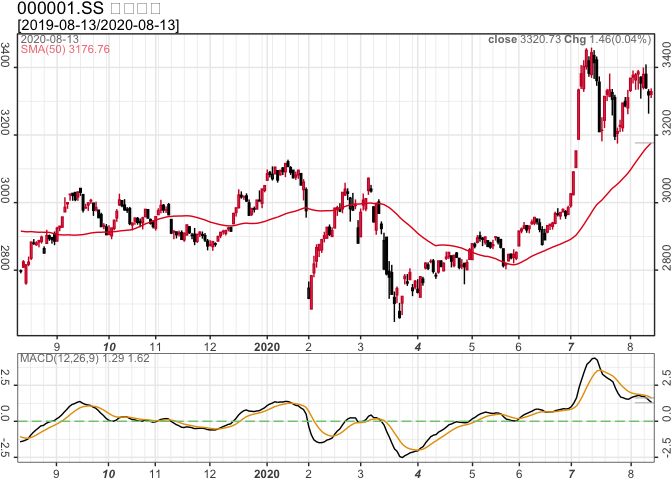
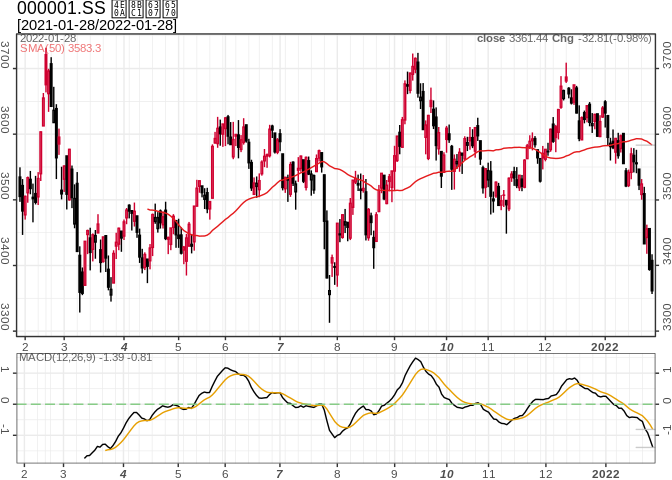
0.1.8

Changed region(s): [[0.0, 0.0, 1.0, 1.0]]

diff --git a/docs/index.html b/docs/index.html
@@ -85,8 +85,8 @@
 
 <p><code>pedquant</code> (Public Economic Data and QUANTitative analysis) provides an interface to access public economic and financial data for economic research and quantitative analysis. The functions are grouped into three main categories,</p>
 <ul>
-<li>ed_* (economic data) functions load economic data from <a href="http://data.stats.gov.cn" class="external-link">NBS</a> and <a href="http://data.stats.gov.cn" class="external-link">FRED</a>;</li>
-<li>md_* (market data) functions load stock prices from <a href="https://finance.yahoo.com" class="external-link">Yahoo finance</a>, stock prices and financial statements of SSE and SZSE shares from <a href="http://quotes.money.163.com/stock#1b01" class="external-link">163 Finance</a>, and future prices from <a href="https://finance.sina.com.cn/futuremarket/" class="external-link">Sina Finance</a> etc.</li>
+<li>ed_* (economic data) functions load economic data from <a href="http://www.stats.gov.cn/" class="external-link">NBS</a> and <a href="https://fred.stlouisfed.org/" class="external-link">FRED</a>;</li>
+<li>md_* (market data) functions load the forex, money, bond, stock, future market data from public data sources, including 163, Sina, qq finance and etc.</li>
 <li>pq_* (quantitative analysis) functions create technical indicators, visualization charts and industrial index etc for time series data.</li>
 </ul>
 <p>The functions in this package are designed to write minimum codes for some common tasks in quantitative analysis process. Since the parameters to get data can be interactively specify, it’s very easy to start. The loaded data have been carefully cleansed and provided in a unified format. More public data sources are still under cleansing and developing.</p>
@@ -114,12 +114,12 @@
 <span id="cb3-5"><a href="#cb3-5" aria-hidden="true" tabindex="-1"></a>dat2 <span class="ot">=</span> <span class="fu">ed_nbs</span>(<span class="at">geo_type=</span><span class="st">'nation'</span>, <span class="at">freq=</span><span class="st">'quarterly'</span>, <span class="at">symbol=</span><span class="st">'A010101'</span>)</span>
 <span id="cb3-6"><a href="#cb3-6" aria-hidden="true" tabindex="-1"></a></span>
 <span id="cb3-7"><a href="#cb3-7" aria-hidden="true" tabindex="-1"></a><span class="do">## import market data</span></span>
-<span id="cb3-8"><a href="#cb3-8" aria-hidden="true" tabindex="-1"></a>FAAG <span class="ot">=</span> <span class="fu">md_stock</span>(<span class="fu">c</span>(<span class="st">'FB'</span>, <span class="st">'AMZN'</span>, <span class="st">'AAPL'</span>, <span class="st">'GOOG'</span>), <span class="at">date_range =</span> <span class="st">'max'</span>) <span class="co"># from yahoo</span></span>
-<span id="cb3-9"><a href="#cb3-9" aria-hidden="true" tabindex="-1"></a><span class="co">#&gt; 1/4 FB</span></span>
-<span id="cb3-10"><a href="#cb3-10" aria-hidden="true" tabindex="-1"></a><span class="co">#&gt; 2/4 AMZN</span></span>
-<span id="cb3-11"><a href="#cb3-11" aria-hidden="true" tabindex="-1"></a><span class="co">#&gt; 3/4 AAPL</span></span>
-<span id="cb3-12"><a href="#cb3-12" aria-hidden="true" tabindex="-1"></a><span class="co">#&gt; 4/4 GOOG</span></span>
-<span id="cb3-13"><a href="#cb3-13" aria-hidden="true" tabindex="-1"></a>INDX <span class="ot">=</span> <span class="fu">md_stock</span>(<span class="fu">c</span>(<span class="st">'^000001'</span>,<span class="st">'^399001'</span>), <span class="at">date_range =</span> <span class="st">'max'</span>, <span class="at">source =</span> <span class="st">'163'</span>)</span>
+<span id="cb3-8"><a href="#cb3-8" aria-hidden="true" tabindex="-1"></a>FAAG <span class="ot">=</span> <span class="fu">md_stock</span>(<span class="fu">c</span>(<span class="st">'FB'</span>, <span class="st">'AMZN'</span>, <span class="st">'AAPL'</span>, <span class="st">'GOOG'</span>), <span class="at">date_range =</span> <span class="st">'10y'</span>)</span>
+<span id="cb3-9"><a href="#cb3-9" aria-hidden="true" tabindex="-1"></a><span class="co">#&gt; 1/4 fb</span></span>
+<span id="cb3-10"><a href="#cb3-10" aria-hidden="true" tabindex="-1"></a><span class="co">#&gt; 2/4 amzn</span></span>
+<span id="cb3-11"><a href="#cb3-11" aria-hidden="true" tabindex="-1"></a><span class="co">#&gt; 3/4 aapl</span></span>
+<span id="cb3-12"><a href="#cb3-12" aria-hidden="true" tabindex="-1"></a><span class="co">#&gt; 4/4 goog</span></span>
+<span id="cb3-13"><a href="#cb3-13" aria-hidden="true" tabindex="-1"></a>INDX <span class="ot">=</span> <span class="fu">md_stock</span>(<span class="fu">c</span>(<span class="st">'^000001'</span>,<span class="st">'^399001'</span>), <span class="at">date_range =</span> <span class="st">'10y'</span>)</span>
 <span id="cb3-14"><a href="#cb3-14" aria-hidden="true" tabindex="-1"></a><span class="co">#&gt; 1/2 ^000001</span></span>
 <span id="cb3-15"><a href="#cb3-15" aria-hidden="true" tabindex="-1"></a><span class="co">#&gt; 2/2 ^399001</span></span>
 <span id="cb3-16"><a href="#cb3-16" aria-hidden="true" tabindex="-1"></a></span>

diff --git a/README.md b/README.md
@@ -1,7 +1,6 @@
 <!-- README.md is generated from README.Rmd. Please edit that file -->
 
-pedquant
-========
+# pedquant
 
 [![Travis build
 status](https://travis-ci.org/ShichenXie/pedquant.svg?branch=master)](https://travis-ci.org/ShichenXie/pedquant)
@@ -16,13 +15,11 @@ research and quantitative analysis. The functions are grouped into three
 main categories,
 
 -   ed\_\* (economic data) functions load economic data from
-    [NBS](http://data.stats.gov.cn) and
-    [FRED](http://data.stats.gov.cn);
--   md\_\* (market data) functions load stock prices from [Yahoo
-    finance](https://finance.yahoo.com), stock prices and financial
-    statements of SSE and SZSE shares from [163
-    Finance](http://quotes.money.163.com/stock#1b01), and future prices
-    from [Sina Finance](https://finance.sina.com.cn/futuremarket/) etc.
+    [NBS](http://www.stats.gov.cn/) and
+    [FRED](https://fred.stlouisfed.org/);
+-   md\_\* (market data) functions load the forex, money, bond, stock,
+    future market data from public data sources, including 163, Sina, qq
+    finance and etc.
 -   pq\_\* (quantitative analysis) functions create technical
     indicators, visualization charts and industrial index etc for time
     series data.
@@ -44,8 +41,7 @@ ggplot2 and interactive graphics by using plotly. Similar works
 including [tidyquant](https://github.com/business-science/tidyquant) or
 [quantmod](https://github.com/joshuaulrich/quantmod).
 
-Installation
-------------
+## Installation
 
 -   Install the release version of `pedquant` from CRAN with:
 
@@ -60,8 +56,7 @@ Installation
 
     devtools::install_github("shichenxie/pedquant")
 
-Example
--------
+## Example
 
 The following examples show you how to import data and create charts.
 
@@ -72,12 +67,12 @@ The following examples show you how to import data and create charts.
     dat2 = ed_nbs(geo_type='nation', freq='quarterly', symbol='A010101')
 
     ## import market data
-    FAAG = md_stock(c('FB', 'AMZN', 'AAPL', 'GOOG'), date_range = 'max') # from yahoo
-    #> 1/4 FB
-    #> 2/4 AMZN
-    #> 3/4 AAPL
-    #> 4/4 GOOG
-    INDX = md_stock(c('^000001','^399001'), date_range = 'max', source = '163')
+    FAAG = md_stock(c('FB', 'AMZN', 'AAPL', 'GOOG'), date_range = '10y')
+    #> 1/4 fb
+    #> 2/4 amzn
+    #> 3/4 aapl
+    #> 4/4 goog
+    INDX = md_stock(c('^000001','^399001'), date_range = '10y')
     #> 1/2 ^000001
     #> 2/2 ^399001
 
@@ -100,8 +95,7 @@ The following examples show you how to import data and create charts.
 
 <img src="man/figures/README-charts2-1.png" width="100%" />
 
-Issues and Contributions
-------------------------
+## Issues and Contributions
 
 This package still on the developing stage. If you have any issue when
 using this package, please update to the latest version from github. If
